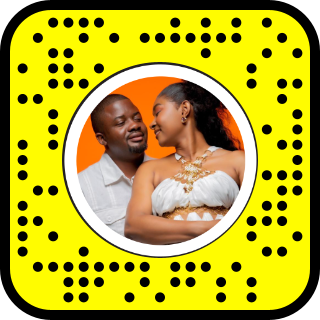
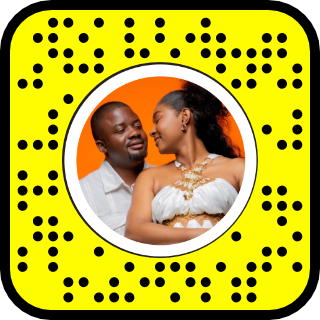
Espace photo : nouveau filtre Snapchat D&H-wedding (lien et Snapcode)

diff --git a/invitation-landing.html b/invitation-landing.html
@@ -847,13 +847,13 @@ td{padding:12px 8px;border-bottom:1px solid var(--line-soft)}
       <p>Prenez la pose avec le filtre des mariés sur Snapchat</p>
     </div>
     <div class="snap reveal">
-      <a class="snap-code" href="https://www.snapchat.com/lens/b10ff059600a4e3db9c4e8c6d860bed2" target="_blank" rel="noopener">
+      <a class="snap-code" href="https://www.snapchat.com/lens/4eb6a11a88a24cfcbad0aab6ad0151df" target="_blank" rel="noopener">
         <img src="assets/invitation/snapcode.png" alt="Snapcode du filtre des mariés" width="320" height="320" loading="lazy">
       </a>
       <div>
         <p class="snap-t">Le filtre sur Snapchat</p>
         <p class="snap-d">Touchez le bouton depuis votre téléphone, ou scannez le Snapcode avec l'appareil photo de Snapchat.</p>
-        <a class="cta snap-btn" href="https://www.snapchat.com/lens/b10ff059600a4e3db9c4e8c6d860bed2" target="_blank" rel="noopener">Ouvrir le filtre</a>
+        <a class="cta snap-btn" href="https://www.snapchat.com/lens/4eb6a11a88a24cfcbad0aab6ad0151df" target="_blank" rel="noopener">Ouvrir le filtre</a>
       </div>
     </div>
   </div>
